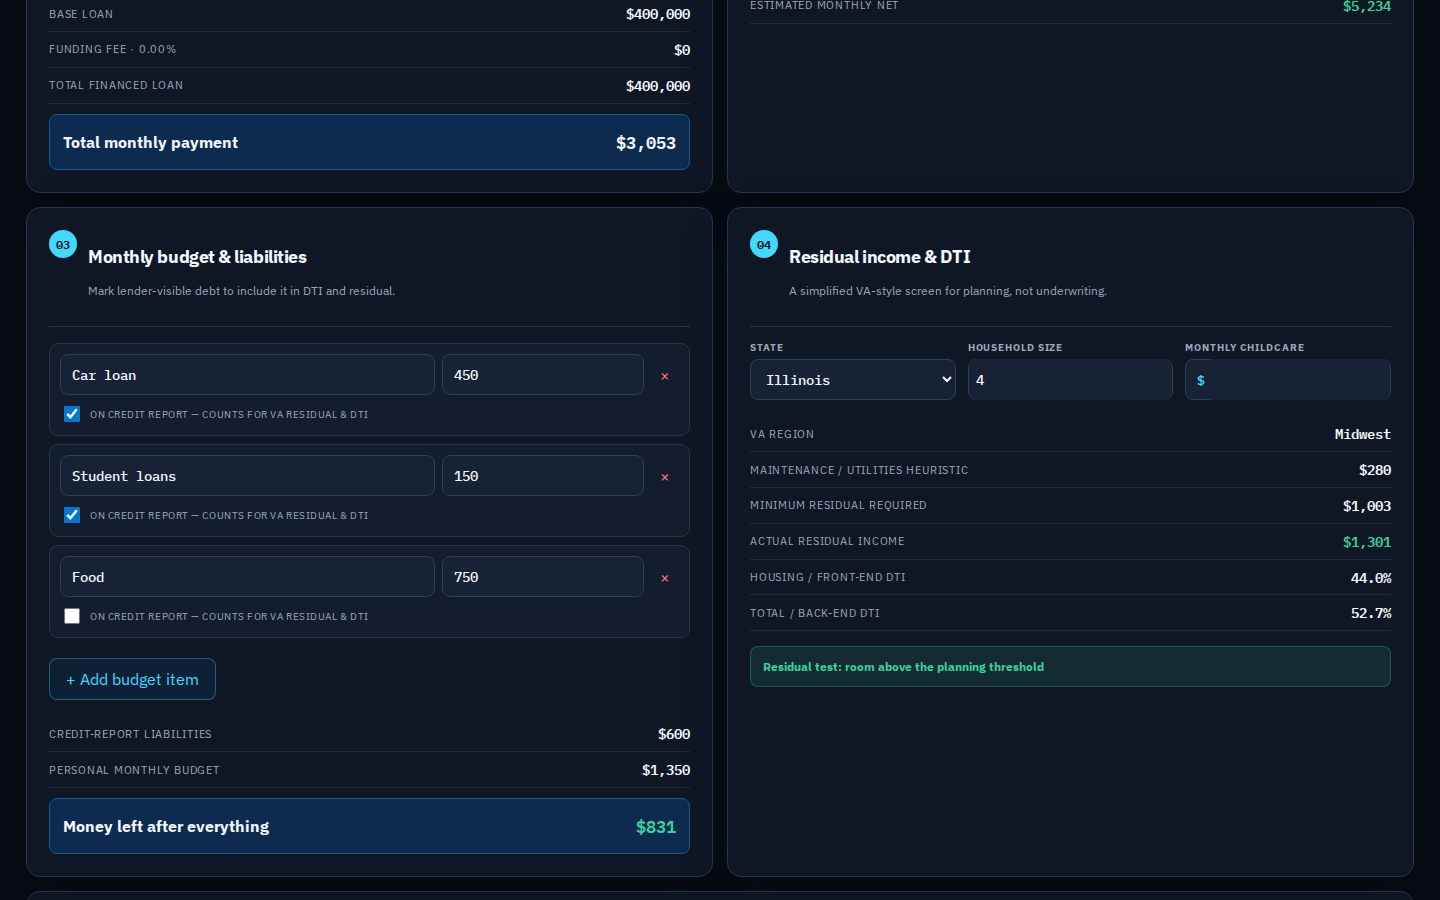
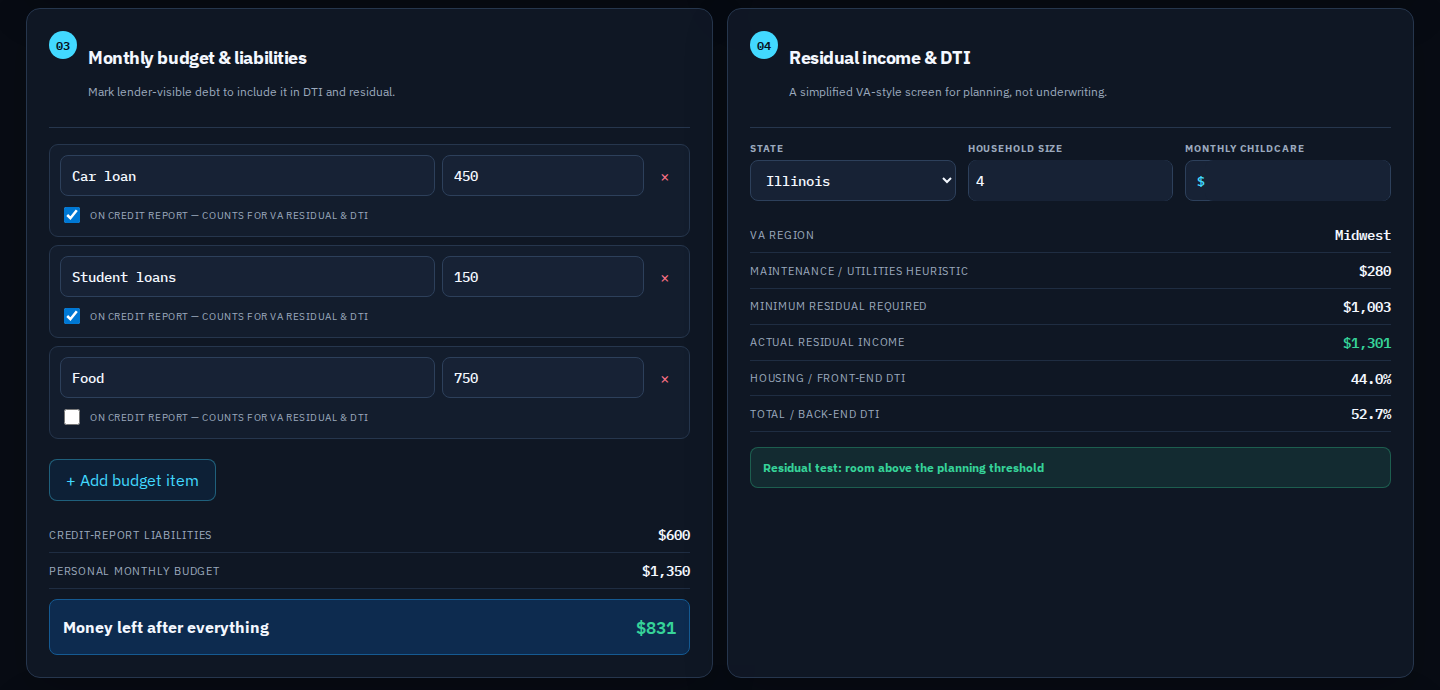
docs: refresh screenshots and scenario actions

diff --git a/src/app/loan-calculator.module.css b/src/app/loan-calculator.module.css
@@ -1,1 +1,1 @@
-.shell{--canvas:#080c14;--surface:#101827;--raised:#172235;--border:#26364d;--ink:#f4f8ff;--muted:#9ba9bd;--blue:#0078d4;--cyan:#42d9ff;--green:#36d399;--amber:#fbbf24;--rose:#fb7185;max-width:1480px;margin:auto;padding:38px 26px 74px;color:var(--ink)}.shell:before{content:"";position:fixed;inset:-30% 25% auto;background:radial-gradient(ellipse,rgba(0,120,212,.12),transparent 60%);pointer-events:none;z-index:-1}.header{display:flex;justify-content:space-between;gap:20px;align-items:center}.kicker{font:600 11px/1.2 var(--font-mono,ui-monospace);color:var(--cyan);letter-spacing:.13em;text-transform:uppercase}.header h1{font-size:32px;letter-spacing:-.04em;margin-top:4px}.header h1 em{font-style:normal;color:var(--cyan)}.headerActions{display:flex;align-items:center;gap:16px}.privacy{font:600 11px/1 var(--font-mono,ui-monospace);color:var(--muted)}.shell button{font:inherit;cursor:pointer}.primaryButton,.secondaryButton{border:1px solid transparent;border-radius:8px;min-height:42px;padding:0 16px;font-weight:700;transition:background .15s,transform .15s,box-shadow .15s}.primaryButton{background:var(--blue);color:white;box-shadow:0 0 22px rgba(0,120,212,.28)}.primaryButton:hover{background:#2899f5;transform:translateY(-1px)}.primaryButton:disabled{opacity:.6;cursor:wait}.secondaryButton{background:rgba(0,120,212,.1);border-color:rgba(66,217,255,.35);color:var(--cyan);margin-top:12px}.secondaryButton:hover{background:rgba(0,120,212,.22)}.disclaimer{font-size:12px;color:var(--muted);padding:14px 0 22px;border-bottom:1px solid var(--border);margin-bottom:20px}.overview{display:grid;grid-template-columns:1.65fr repeat(4,1fr);gap:12px;margin-bottom:14px}.heroMetric,.metric{background:linear-gradient(145deg,rgba(23,34,53,.96),rgba(12,19,32,.96));border:1px solid var(--border);border-radius:14px;padding:16px;min-height:104px;display:flex;flex-direction:column;justify-content:space-between}.heroMetric strong{font:600 30px/1 var(--font-mono,ui-monospace);letter-spacing:-.06em}.heroMetric small,.metric span{font-size:11px;color:var(--muted);text-transform:uppercase;letter-spacing:.07em}.metric strong{font:600 18px/1.2 var(--font-mono,ui-monospace);margin-top:9px}.good{color:var(--green)!important}.warning{color:var(--amber)!important}.bad{color:var(--rose)!important}.twoColumn{display:grid;grid-template-columns:1fr 1fr;gap:14px;margin-top:14px}.panel,.payoffPanel,.saved{background:rgba(16,24,39,.91);border:1px solid var(--border);border-radius:14px;padding:22px;box-shadow:0 16px 45px rgba(0,0,0,.17)}.panelTitle{display:flex;gap:11px;border-bottom:1px solid var(--border);padding-bottom:15px;margin-bottom:16px}.panelTitle b{display:grid;place-items:center;flex:0 0 28px;height:28px;border-radius:50%;color:#07101c;background:var(--cyan);font:700 12px var(--font-mono,monospace)}.panel h2,.payoffPanel h2{font-size:18px;letter-spacing:-.025em}.panelTitle h2+p,.panelTitle p,.payoffHead p{font-size:12px;color:var(--muted);margin-top:3px;line-height:1.4}.fields2,.fields3{display:grid;gap:12px}.fields2{grid-template-columns:1fr 1fr}.fields3{grid-template-columns:repeat(3,1fr)}.field{display:flex;flex-direction:column;gap:6px;min-width:0}.field>span{font-size:10px;line-height:1;text-transform:uppercase;letter-spacing:.09em;color:var(--muted);font-weight:700}.inputWrap{display:flex;align-items:center;background:var(--raised);border:1px solid #2d405b;border-radius:8px;height:41px}.inputWrap b{padding-left:11px;color:var(--cyan);font:600 13px var(--font-mono,monospace)}.shell input,.shell select{width:100%;background:var(--raised);border:1px solid #2d405b;border-radius:8px;color:var(--ink);min-height:41px;padding:0 11px;font:500 14px var(--font-mono,ui-monospace)}.inputWrap input{border:0;height:39px;padding-left:7px;min-width:0}.shell input:focus,.shell select:focus{outline:2px solid var(--cyan);outline-offset:1px;border-color:var(--cyan)}.toggleRow{display:flex;gap:12px;flex-wrap:wrap;padding:15px 0;font-size:12px;color:var(--muted)}.toggleRow label,.checkLabel{display:flex;align-items:center;gap:7px}.toggleRow input,.checkLabel input{accent-color:var(--blue);width:16px;min-height:16px}.breakdown{margin-top:16px}.breakdown .metric{background:transparent;border:0;border-radius:0;min-height:0;padding:9px 0;border-bottom:1px solid rgba(38,54,77,.72);display:flex;flex-direction:row;align-items:center}.breakdown .metric strong{margin:0;font-size:14px;text-align:right}.repeatRow{border:1px solid var(--border);background:rgba(23,34,53,.55);padding:10px;border-radius:9px;margin-bottom:8px}.inlineGrid{display:grid;grid-template-columns:1.2fr .8fr .75fr auto;gap:7px}.budgetRow{display:grid;grid-template-columns:1.3fr .7fr auto;gap:7px}.remove{align-self:center;background:transparent;border:0;color:var(--rose);font-size:22px;line-height:1;width:28px;height:28px}.checkLabel{font-size:10px;text-transform:uppercase;letter-spacing:.055em;color:var(--muted);margin-top:8px}.totalRow{background:#0d2b4f;border:1px solid #155a92;border-radius:8px;padding:13px;display:flex;justify-content:space-between;align-items:center;font-weight:700;margin-top:10px}.totalRow strong{font:600 17px var(--font-mono,monospace)}.statusBar{margin-top:15px;border-radius:8px;padding:12px;font-size:12px;font-weight:700}.statusGood{background:rgba(54,211,153,.11);color:var(--green);border:1px solid rgba(54,211,153,.3)}.statusBad{background:rgba(251,113,133,.1);color:var(--rose);border:1px solid rgba(251,113,133,.28)}.payoffPanel{margin-top:14px}.payoffHead{display:flex;justify-content:space-between;gap:25px}.payoffHead h2{font-size:25px;margin:4px 0}.payoffInputs{display:grid;grid-template-columns:190px 190px;gap:10px;align-self:start}.payoffMetrics{display:grid;grid-template-columns:repeat(4,1fr);gap:11px;margin:20px 0}.payoffMetrics .metric{min-height:83px}.chart{padding:14px 8px 4px;background:#0b1423;border:1px solid var(--border);border-radius:10px}.chartLegend{display:flex;gap:18px;flex-wrap:wrap;font-size:11px;color:var(--muted);padding:0 6px 8px}.chartLegend i{display:inline-block;width:8px;height:8px;border-radius:50%;margin-right:5px}.yellowDot{background:var(--amber)}.greenDot{background:var(--green)}.chart svg{width:100%;height:185px;overflow:visible}.chart svg line{stroke:#21324a;stroke-width:.45}.baselineLine,.acceleratedLine{fill:none;stroke-width:1.5;vector-effect:non-scaling-stroke}.baselineLine{stroke:var(--amber)}.acceleratedLine{stroke:var(--green);filter:drop-shadow(0 0 3px rgba(54,211,153,.6))}.axis{display:flex;justify-content:space-between;color:var(--muted);font:10px var(--font-mono,monospace)}.tableWrap{overflow:auto;margin-top:16px}.tableWrap table{border-collapse:collapse;width:100%;font-size:12px;min-width:620px}.tableWrap th{text-align:left;color:var(--muted);font-size:10px;text-transform:uppercase;letter-spacing:.07em;padding:8px;border-bottom:1px solid var(--border)}.tableWrap td{padding:10px 8px;border-bottom:1px solid rgba(38,54,77,.55);font-family:var(--font-mono,monospace)}.tableWrap td:first-child{font-family:inherit}.saved{margin-top:14px;padding:17px;display:flex;gap:8px;align-items:center;flex-wrap:wrap}.saved .kicker{width:100%;margin-bottom:3px}.saved button{background:#172235;border:1px solid var(--border);border-radius:8px;padding:10px 12px;color:var(--ink);font-size:12px}.saved button span{color:var(--cyan);margin-left:11px}.scenarioDock{width:min(680px,100%);margin:0 0 18px;padding:14px 16px;background:#0b1423;border:1px solid var(--border);border-radius:10px}.scenarioDock .kicker{margin-bottom:10px}.scenarioManager{display:flex;align-items:end;gap:10px;flex-wrap:wrap;width:100%}.scenarioPicker{display:flex;flex-direction:column;gap:6px;min-width:280px;flex:1}.scenarioPicker>span{font-size:10px;text-transform:uppercase;letter-spacing:.08em;color:var(--muted);font-weight:700}.scenarioActions{display:flex;gap:6px}.scenarioActions button{min-height:40px}.scenarioLoad{background:var(--blue)!important;border-color:var(--blue)!important}.scenarioEdit,.scenarioDelete{background:transparent!important;border:1px solid var(--border)!important;padding:8px 11px!important;font-size:11px!important}.scenarioEdit{color:var(--cyan)!important}.scenarioDelete{color:var(--rose)!important}.scenarioActions button:disabled{opacity:.45;cursor:not-allowed}.toast{position:fixed;bottom:22px;right:22px;background:#10355d;border:1px solid var(--cyan);color:var(--ink);padding:12px 16px;border-radius:9px;box-shadow:0 0 30px rgba(0,120,212,.3);font-size:13px}.scenarioName{width:190px;min-height:42px}.pieGrid{display:grid;grid-template-columns:1fr 1fr;gap:14px;margin:14px 0}.pieCard{background:rgba(16,24,39,.91);border:1px solid var(--border);border-radius:14px;padding:18px}.pieCard h3{font-size:14px;margin:0 0 10px}.pieCard svg{display:block;width:170px;height:170px;margin:0 auto}.pieCard path{stroke:#080c14;stroke-width:1;transition:opacity .15s,transform .15s;transform-origin:center}.pieCard path:hover{opacity:.82;transform:scale(1.03)}.pieLegend{display:flex;justify-content:center;gap:12px;flex-wrap:wrap;font-size:10px;color:var(--muted)}.pieLegend i{display:inline-block;width:8px;height:8px;border-radius:50%;margin-right:4px}.pieLegend b{color:var(--ink);margin-left:3px}.pieCard p,.chartCaption{color:var(--muted);font-size:10px;text-align:center;margin:10px 0 0}.axis{position:relative;height:16px;display:block}.axis span{position:absolute;transform:translateX(-50%);text-align:center}.axis span i{display:block;color:var(--muted);font-style:normal;line-height:8px}@media(max-width:1050px){.overview{grid-template-columns:repeat(3,1fr)}.heroMetric{grid-column:span 3}.payoffInputs{grid-template-columns:1fr 1fr}}@media(max-width:780px){.shell{padding:23px 14px 60px}.header,.payoffHead{align-items:flex-start;flex-direction:column}.headerActions{width:100%;justify-content:space-between}.overview,.twoColumn,.payoffMetrics{grid-template-columns:1fr}.heroMetric{grid-column:auto}.twoColumn{gap:12px}.fields3{grid-template-columns:1fr}.payoffInputs{width:100%;grid-template-columns:1fr 1fr}.inlineGrid{grid-template-columns:1fr 1fr auto}.inlineGrid select{grid-column:span 1}.inlineGrid input:nth-of-type(2){grid-column:span 1}.budgetRow{grid-template-columns:1fr 100px auto}}@media(max-width:460px){.header h1{font-size:28px}.privacy{display:none}.fields2,.payoffInputs{grid-template-columns:1fr}.inlineGrid{grid-template-columns:1fr auto}.inlineGrid select,.inlineGrid input:nth-of-type(2){grid-column:auto}.heroMetric strong{font-size:27px}}
+.shell{--canvas:#080c14;--surface:#101827;--raised:#172235;--border:#26364d;--ink:#f4f8ff;--muted:#9ba9bd;--blue:#0078d4;--cyan:#42d9ff;--green:#36d399;--amber:#fbbf24;--rose:#fb7185;max-width:1480px;margin:auto;padding:38px 26px 74px;color:var(--ink)}.shell:before{content:"";position:fixed;inset:-30% 25% auto;background:radial-gradient(ellipse,rgba(0,120,212,.12),transparent 60%);pointer-events:none;z-index:-1}.header{display:flex;justify-content:space-between;gap:20px;align-items:center}.kicker{font:600 11px/1.2 var(--font-mono,ui-monospace);color:var(--cyan);letter-spacing:.13em;text-transform:uppercase}.header h1{font-size:32px;letter-spacing:-.04em;margin-top:4px}.header h1 em{font-style:normal;color:var(--cyan)}.headerActions{display:flex;align-items:center;gap:16px}.privacy{font:600 11px/1 var(--font-mono,ui-monospace);color:var(--muted)}.shell button{font:inherit;cursor:pointer}.primaryButton,.secondaryButton{border:1px solid transparent;border-radius:8px;min-height:42px;padding:0 16px;font-weight:700;transition:background .15s,transform .15s,box-shadow .15s}.primaryButton{background:var(--blue);color:white;border-radius:999px;box-shadow:0 0 22px rgba(0,120,212,.42)}.primaryButton:hover{background:#2899f5;transform:translateY(-1px)}.primaryButton:disabled{opacity:.6;cursor:wait}.secondaryButton{background:rgba(0,120,212,.1);border-color:rgba(66,217,255,.35);color:var(--cyan);margin-top:12px}.secondaryButton:hover{background:rgba(0,120,212,.22)}.disclaimer{font-size:12px;color:var(--muted);padding:14px 0 22px;border-bottom:1px solid var(--border);margin-bottom:20px}.overview{display:grid;grid-template-columns:1.65fr repeat(4,1fr);gap:12px;margin-bottom:14px}.heroMetric,.metric{background:linear-gradient(145deg,rgba(23,34,53,.96),rgba(12,19,32,.96));border:1px solid var(--border);border-radius:14px;padding:16px;min-height:104px;display:flex;flex-direction:column;justify-content:space-between}.heroMetric strong{font:600 30px/1 var(--font-mono,ui-monospace);letter-spacing:-.06em}.heroMetric small,.metric span{font-size:11px;color:var(--muted);text-transform:uppercase;letter-spacing:.07em}.metric strong{font:600 18px/1.2 var(--font-mono,ui-monospace);margin-top:9px}.good{color:var(--green)!important}.warning{color:var(--amber)!important}.bad{color:var(--rose)!important}.twoColumn{display:grid;grid-template-columns:1fr 1fr;gap:14px;margin-top:14px}.panel,.payoffPanel,.saved{background:rgba(16,24,39,.91);border:1px solid var(--border);border-radius:14px;padding:22px;box-shadow:0 16px 45px rgba(0,0,0,.17)}.panelTitle{display:flex;gap:11px;border-bottom:1px solid var(--border);padding-bottom:15px;margin-bottom:16px}.panelTitle b{display:grid;place-items:center;flex:0 0 28px;height:28px;border-radius:50%;color:#07101c;background:var(--cyan);font:700 12px var(--font-mono,monospace)}.panel h2,.payoffPanel h2{font-size:18px;letter-spacing:-.025em}.panelTitle h2+p,.panelTitle p,.payoffHead p{font-size:12px;color:var(--muted);margin-top:3px;line-height:1.4}.fields2,.fields3{display:grid;gap:12px}.fields2{grid-template-columns:1fr 1fr}.fields3{grid-template-columns:repeat(3,1fr)}.field{display:flex;flex-direction:column;gap:6px;min-width:0}.field>span{font-size:10px;line-height:1;text-transform:uppercase;letter-spacing:.09em;color:var(--muted);font-weight:700}.inputWrap{display:flex;align-items:center;background:var(--raised);border:1px solid #2d405b;border-radius:8px;height:41px}.inputWrap b{padding-left:11px;color:var(--cyan);font:600 13px var(--font-mono,monospace)}.shell input,.shell select{width:100%;background:var(--raised);border:1px solid #2d405b;border-radius:8px;color:var(--ink);min-height:41px;padding:0 11px;font:500 14px var(--font-mono,ui-monospace)}.inputWrap input{border:0;height:39px;padding-left:7px;min-width:0}.shell input:focus,.shell select:focus{outline:2px solid var(--cyan);outline-offset:1px;border-color:var(--cyan)}.toggleRow{display:flex;gap:12px;flex-wrap:wrap;padding:15px 0;font-size:12px;color:var(--muted)}.toggleRow label,.checkLabel{display:flex;align-items:center;gap:7px}.toggleRow input,.checkLabel input{accent-color:var(--blue);width:16px;min-height:16px}.breakdown{margin-top:16px}.breakdown .metric{background:transparent;border:0;border-radius:0;min-height:0;padding:9px 0;border-bottom:1px solid rgba(38,54,77,.72);display:flex;flex-direction:row;align-items:center}.breakdown .metric strong{margin:0;font-size:14px;text-align:right}.repeatRow{border:1px solid var(--border);background:rgba(23,34,53,.55);padding:10px;border-radius:9px;margin-bottom:8px}.inlineGrid{display:grid;grid-template-columns:1.2fr .8fr .75fr auto;gap:7px}.budgetRow{display:grid;grid-template-columns:1.3fr .7fr auto;gap:7px}.remove{align-self:center;background:transparent;border:0;color:var(--rose);font-size:22px;line-height:1;width:28px;height:28px}.checkLabel{font-size:10px;text-transform:uppercase;letter-spacing:.055em;color:var(--muted);margin-top:8px}.totalRow{background:#0d2b4f;border:1px solid #155a92;border-radius:8px;padding:13px;display:flex;justify-content:space-between;align-items:center;font-weight:700;margin-top:10px}.totalRow strong{font:600 17px var(--font-mono,monospace)}.statusBar{margin-top:15px;border-radius:8px;padding:12px;font-size:12px;font-weight:700}.statusGood{background:rgba(54,211,153,.11);color:var(--green);border:1px solid rgba(54,211,153,.3)}.statusBad{background:rgba(251,113,133,.1);color:var(--rose);border:1px solid rgba(251,113,133,.28)}.payoffPanel{margin-top:14px}.payoffHead{display:flex;justify-content:space-between;gap:25px}.payoffHead h2{font-size:25px;margin:4px 0}.payoffInputs{display:grid;grid-template-columns:190px 190px;gap:10px;align-self:start}.payoffMetrics{display:grid;grid-template-columns:repeat(4,1fr);gap:11px;margin:20px 0}.payoffMetrics .metric{min-height:83px}.chart{padding:14px 8px 4px;background:#0b1423;border:1px solid var(--border);border-radius:10px}.chartLegend{display:flex;gap:18px;flex-wrap:wrap;font-size:11px;color:var(--muted);padding:0 6px 8px}.chartLegend i{display:inline-block;width:8px;height:8px;border-radius:50%;margin-right:5px}.yellowDot{background:var(--amber)}.greenDot{background:var(--green)}.chart svg{width:100%;height:185px;overflow:visible}.chart svg line{stroke:#21324a;stroke-width:.45}.baselineLine,.acceleratedLine{fill:none;stroke-width:1.5;vector-effect:non-scaling-stroke}.baselineLine{stroke:var(--amber)}.acceleratedLine{stroke:var(--green);filter:drop-shadow(0 0 3px rgba(54,211,153,.6))}.axis{display:flex;justify-content:space-between;color:var(--muted);font:10px var(--font-mono,monospace)}.tableWrap{overflow:auto;margin-top:16px}.tableWrap table{border-collapse:collapse;width:100%;font-size:12px;min-width:620px}.tableWrap th{text-align:left;color:var(--muted);font-size:10px;text-transform:uppercase;letter-spacing:.07em;padding:8px;border-bottom:1px solid var(--border)}.tableWrap td{padding:10px 8px;border-bottom:1px solid rgba(38,54,77,.55);font-family:var(--font-mono,monospace)}.tableWrap td:first-child{font-family:inherit}.saved{margin-top:14px;padding:17px;display:flex;gap:8px;align-items:center;flex-wrap:wrap}.saved .kicker{width:100%;margin-bottom:3px}.saved button{background:#172235;border:1px solid var(--border);border-radius:8px;padding:10px 12px;color:var(--ink);font-size:12px}.saved button span{color:var(--cyan);margin-left:11px}.scenarioDock{width:min(680px,100%);margin:0 0 18px;padding:14px 16px;background:#0b1423;border:1px solid var(--border);border-radius:10px}.scenarioDock .kicker{margin-bottom:10px}.scenarioManager{display:flex;align-items:end;gap:10px;flex-wrap:wrap;width:100%}.scenarioPicker{display:flex;flex-direction:column;gap:6px;min-width:280px;flex:1}.scenarioPicker>span{font-size:10px;text-transform:uppercase;letter-spacing:.08em;color:var(--muted);font-weight:700}.scenarioActions{display:flex;gap:6px}.scenarioActions button{min-height:40px}.scenarioLoad{background:var(--blue)!important;color:#fff!important;border-color:var(--blue)!important;border-radius:999px!important;box-shadow:0 0 16px rgba(0,120,212,.42)}.scenarioEdit{background:var(--amber)!important;color:#17110a!important;border-color:var(--amber)!important;border-radius:999px!important;box-shadow:0 0 16px rgba(251,191,36,.35)}.scenarioDelete{background:var(--rose)!important;color:#fff!important;border-color:var(--rose)!important;border-radius:999px!important;box-shadow:0 0 16px rgba(251,113,133,.35)}.scenarioActions button:disabled{opacity:.45;cursor:not-allowed}.toast{position:fixed;bottom:22px;right:22px;background:#10355d;border:1px solid var(--cyan);color:var(--ink);padding:12px 16px;border-radius:9px;box-shadow:0 0 30px rgba(0,120,212,.3);font-size:13px}.scenarioName{width:190px;min-height:42px}.pieGrid{display:grid;grid-template-columns:1fr 1fr;gap:14px;margin:14px 0}.pieCard{background:rgba(16,24,39,.91);border:1px solid var(--border);border-radius:14px;padding:18px}.pieCard h3{font-size:14px;margin:0 0 10px}.pieCard svg{display:block;width:170px;height:170px;margin:0 auto}.pieCard path{stroke:#080c14;stroke-width:1;transition:opacity .15s,transform .15s;transform-origin:center}.pieCard path:hover{opacity:.82;transform:scale(1.03)}.pieLegend{display:flex;justify-content:center;gap:12px;flex-wrap:wrap;font-size:10px;color:var(--muted)}.pieLegend i{display:inline-block;width:8px;height:8px;border-radius:50%;margin-right:4px}.pieLegend b{color:var(--ink);margin-left:3px}.pieCard p,.chartCaption{color:var(--muted);font-size:10px;text-align:center;margin:10px 0 0}.axis{position:relative;height:16px;display:block}.axis span{position:absolute;transform:translateX(-50%);text-align:center}.axis span i{display:block;color:var(--muted);font-style:normal;line-height:8px}@media(max-width:1050px){.overview{grid-template-columns:repeat(3,1fr)}.heroMetric{grid-column:span 3}.payoffInputs{grid-template-columns:1fr 1fr}}@media(max-width:780px){.shell{padding:23px 14px 60px}.header,.payoffHead{align-items:flex-start;flex-direction:column}.headerActions{width:100%;justify-content:space-between}.overview,.twoColumn,.payoffMetrics{grid-template-columns:1fr}.heroMetric{grid-column:auto}.twoColumn{gap:12px}.fields3{grid-template-columns:1fr}.payoffInputs{width:100%;grid-template-columns:1fr 1fr}.inlineGrid{grid-template-columns:1fr 1fr auto}.inlineGrid select{grid-column:span 1}.inlineGrid input:nth-of-type(2){grid-column:span 1}.budgetRow{grid-template-columns:1fr 100px auto}}@media(max-width:460px){.header h1{font-size:28px}.privacy{display:none}.fields2,.payoffInputs{grid-template-columns:1fr}.inlineGrid{grid-template-columns:1fr auto}.inlineGrid select,.inlineGrid input:nth-of-type(2){grid-column:auto}.heroMetric strong{font-size:27px}}

diff --git a/README.md b/README.md
@@ -15,17 +15,21 @@ A private, local-first VA home-loan planning workspace built with Next.js, TypeS
 
 ## Screenshots
 
-### Loan, payment, and household income
+### Financial overview and affordability mix
 
-![Sentinel VA loan and income workspace](docs/screenshots/overview.png)
+![Sentinel VA dashboard overview with payment metrics and affordability pie charts](docs/screenshots/dashboard-overview.png)
 
-### Budget, liabilities, and VA-style residual-income context
+### Loan setup and household income
 
-![Sentinel VA affordability workspace](docs/screenshots/affordability.png)
+![Sentinel VA loan payment and household income workspace](docs/screenshots/loan-income.png)
 
-### Extra-principal payoff analysis
+### Budget, liabilities, residual income, and DTI
 
-![Sentinel VA payoff analysis chart and annual savings table](docs/screenshots/payoff-analysis.png)
+![Sentinel VA monthly budget and residual-income workspace](docs/screenshots/affordability.png)
+
+### Extra-principal payoff strategy
+
+![Sentinel VA payoff workspace with neon scenario actions, balance chart, and annual savings table](docs/screenshots/payoff-analysis.png)
 
 ## Tech stack
 
@@ -60,3 +64,14 @@ Saved scenarios are stored in `data/sentinel-va.db` on the machine running the a
 
 - `PRODUCT_SPEC.md` — feature and engineering specification.
 - `DESIGN.md` — visual-system tokens and UX rules.
+
+## Learning resources
+
+Use these independent resources to understand VA loans, mortgage costs, and home-buying decisions:
+
+- [VA home loan programs](https://www.va.gov/housing-assistance/home-loans/)
+- [VA funding fees and closing costs](https://www.va.gov/housing-assistance/home-loans/funding-fee-and-closing-costs/)
+- [VA loan limits](https://www.va.gov/housing-assistance/home-loans/loan-limits/)
+- [Consumer Financial Protection Bureau: Owning a Home](https://www.consumerfinance.gov/owning-a-home/)
+- [CFPB mortgage calculator](https://www.consumerfinance.gov/owning-a-home/explore-rates/)
+- [Fannie Mae HomeView® homeownership course](https://www.fanniemae.com/education)

diff --git a/CHANGELOG.md b/CHANGELOG.md
@@ -4,6 +4,12 @@ All notable changes to Sentinel VA are documented in this file.
 
 The format follows [Keep a Changelog](https://keepachangelog.com/en/1.1.0/) and this project uses semantic-versioning intent.
 
+## [0.2.8] - 2026-07-18
+
+### Changed
+- Restyled scenario actions as smooth neon pills: Load/Save blue, Rename yellow, and Delete red.
+- Replaced README imagery with four complete, section-focused screenshots and added VA-loan and homeownership learning resources.
+
 ## [0.2.7] - 2026-07-18
 
 ### Changed